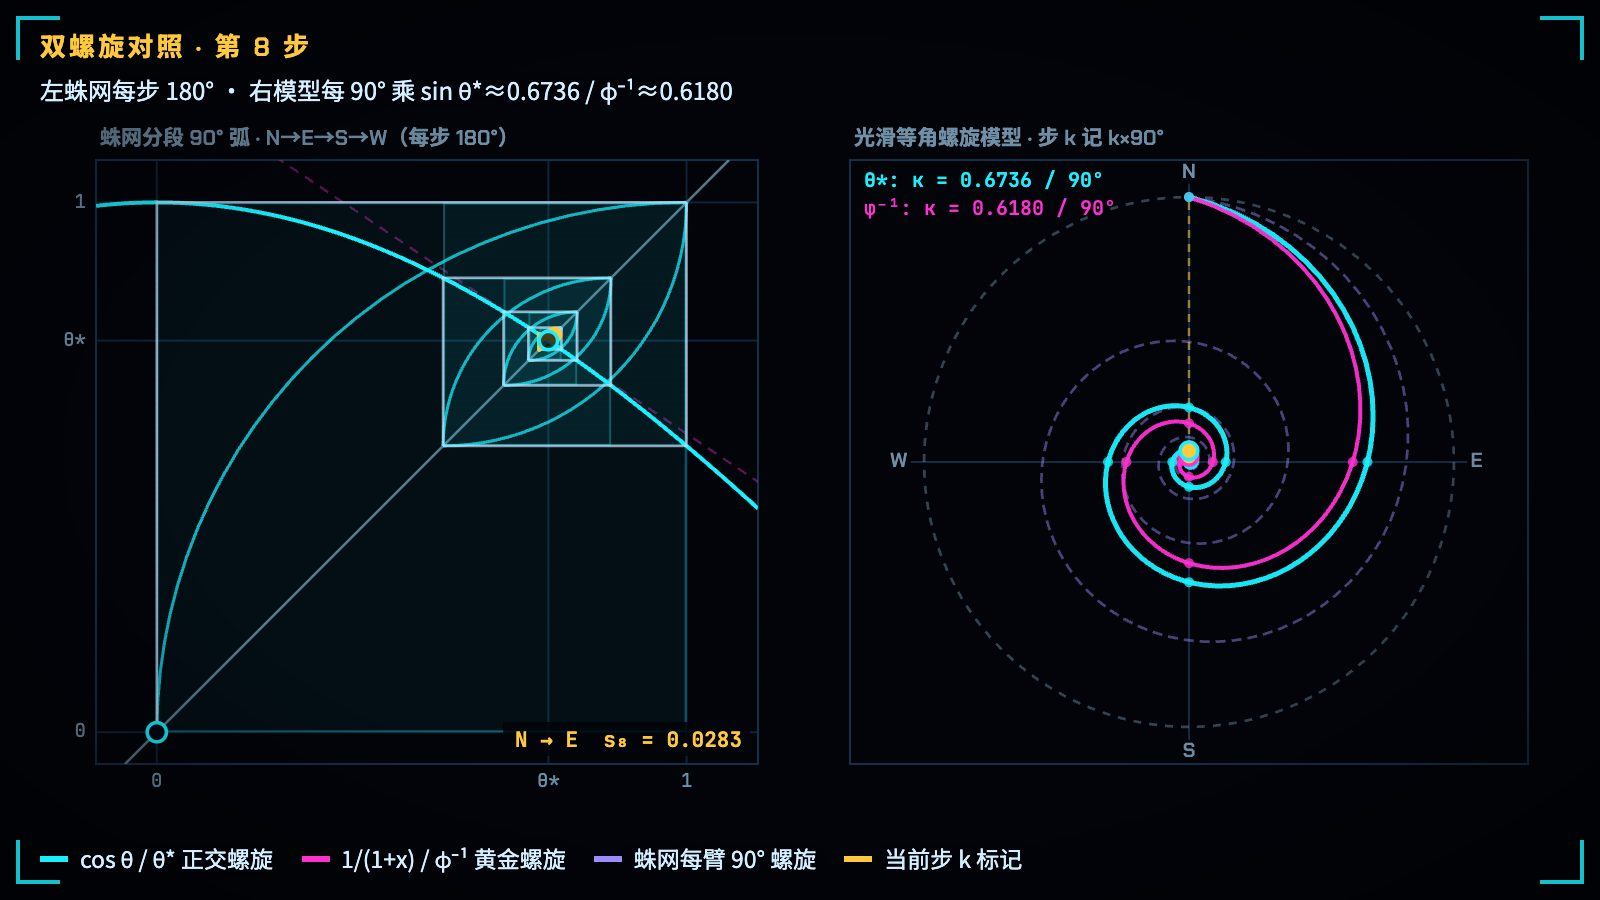
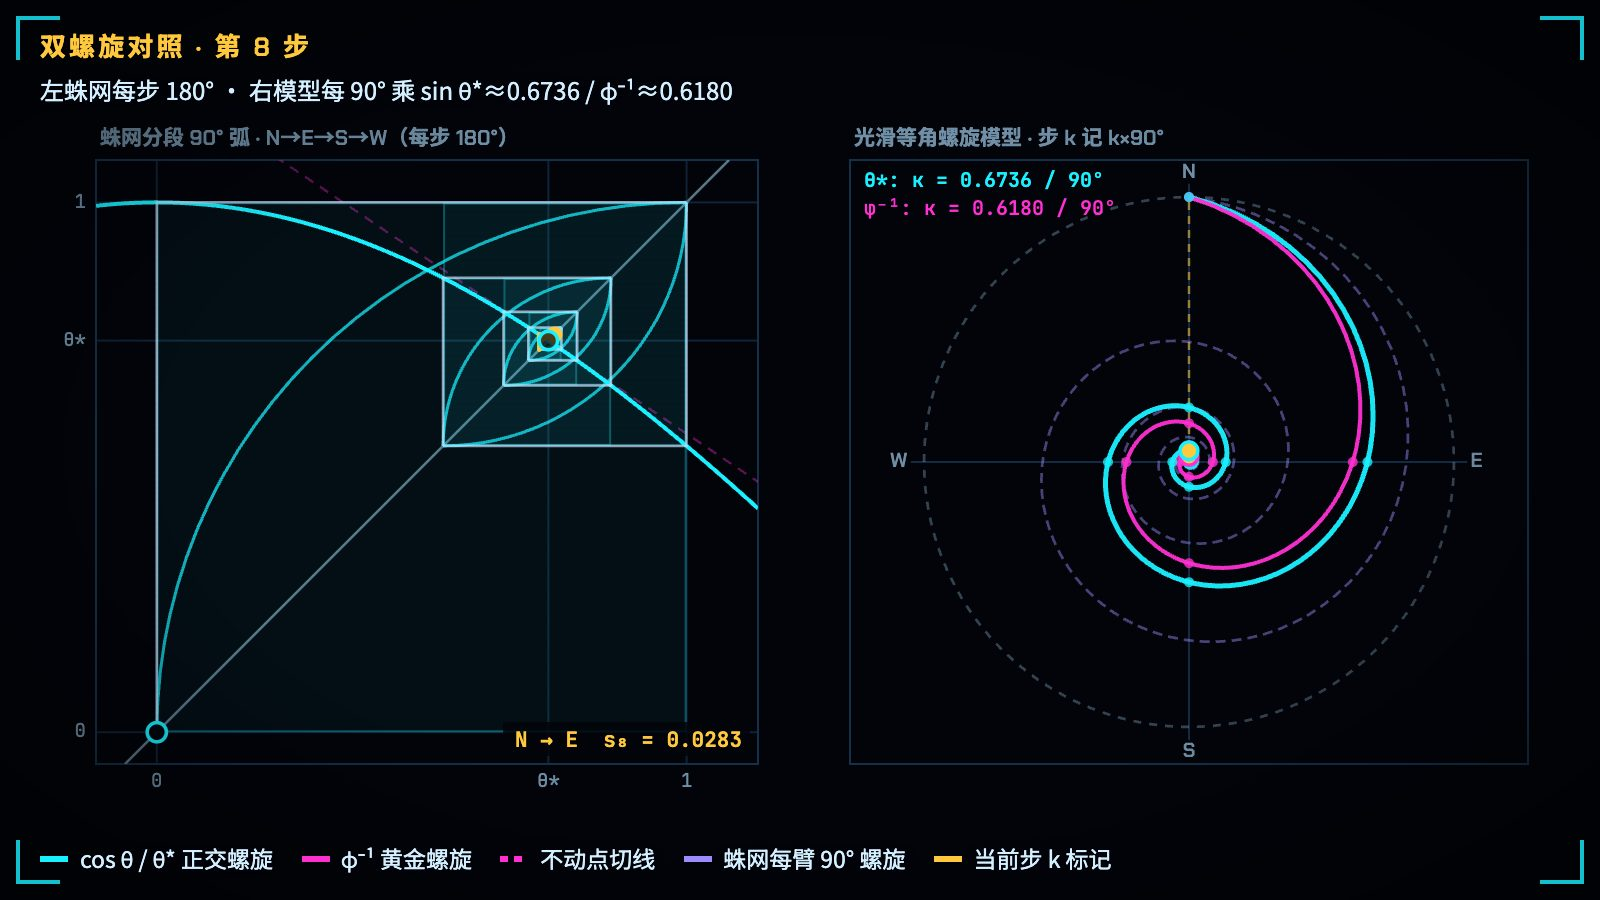
Fix Dottie lab legends and off-scale conservation marker

Changed region(s): [[0.2188, 0.9333, 0.6875, 0.9644]]

diff --git a/books/quantum-geometry/viz/dottie-fibonacci-spirals/main.js b/books/quantum-geometry/viz/dottie-fibonacci-spirals/main.js
@@ -403,7 +403,7 @@
     if (!follow) {
       const sx = B.X(S.x0c / 100), sy = B.Y(S.x0c / 100);
       ctx.fillStyle = P.void;
-      ctx.strokeStyle = step() === 0 ? P.amber : P.cyan;
+      ctx.strokeStyle = step() === 0 ? P.amber : (S.map === 'fib' ? P.magenta : P.cyan);
       ctx.lineWidth = 1.8 * lw;
       ctx.beginPath(); ctx.arc(sx, sy, 4.8 * lw, 0, TAU); ctx.fill(); ctx.stroke();
     }
@@ -753,11 +753,18 @@
     ctx.lineWidth = 1.8 * lw;
     ctx.beginPath(); ctx.moveTo(xSplit, pyBar - 2); ctx.lineTo(xSplit, pyBar + barH + 2); ctx.stroke();
     const Of = buildOrbit('fib', S.x0c === 0 ? 100 : S.x0c), kBar = step();
-    const xkBar = clamp(Of.xs[Math.min(kBar, KMAX)], 0, 1);
-    ctx.fillStyle = P.amber;
-    ctx.strokeStyle = P.stage;
-    ctx.lineWidth = 1.1 * lw;
-    ctx.beginPath(); ctx.arc(B.X(xkBar), pyBar, 3.3 * lw, 0, TAU); ctx.fill(); ctx.stroke();
+    const xkBar = Of.xs[Math.min(kBar, KMAX)];
+    // A start x₀ ∈ (1, 1.5] lies past the unit bar: point beyond its end instead of pinning the marker at 1.
+    const offBar = xkBar > 1;
+    const tipX = x1P + 2 * lw + Math.max(10 * lw, Math.min(16 * lw, B.bx + B.bw - x1P - 5 * lw));
+    if (offBar) {
+      drawArrowSeg(ctx, x1P + 2 * lw, pyBar + barH / 2, tipX, pyBar + barH / 2, P.amber, 2.2, lw, 7);
+    } else {
+      ctx.fillStyle = P.amber;
+      ctx.strokeStyle = P.stage;
+      ctx.lineWidth = 1.1 * lw;
+      ctx.beginPath(); ctx.arc(B.X(xkBar), pyBar, 3.3 * lw, 0, TAU); ctx.fill(); ctx.stroke();
+    }
 
     if (!TRV.thumbMode) {
       ctx.font = font(10, 'data', 600);
@@ -765,13 +772,23 @@
       ctx.fillStyle = P.ink;
       ctx.textAlign = 'left';
       ctx.fillText('1D: φ⁻¹ + φ⁻² = 1', x0P, pyBar - 3);
-      const fibTag = S.x0c === 0
+      const w1D = ctx.measureText('1D: φ⁻¹ + φ⁻² = 1').width;
+      let fibTag = S.x0c === 0
         ? `x${sub(kBar)}(x₀=1)=${Of.rationals[Math.min(kBar, KMAX)]}`
         : `x${sub(kBar)}=${Of.rationals[Math.min(kBar, KMAX)]}`;
       ctx.font = font(9.5, 'data', 600);
       ctx.fillStyle = P.amber;
       ctx.textAlign = 'right';
-      ctx.fillText(fibTag, x1P, pyBar - 3);
+      // off the bar: the tag says so and ends above the arrow, clear of the 1D statement (short form when cramped)
+      let tagX = x1P;
+      if (offBar) {
+        const minLeft = x0P + w1D + 6, right = B.bx + B.bw - 4 * lw;
+        const place = (t) => Math.min(right, Math.max(tipX + 2 * lw, minLeft + ctx.measureText(t).width));
+        const full = `${fibTag} > 1${L(' 尺外', ' off-scale')}`;
+        fibTag = place(full) - ctx.measureText(full).width >= minLeft ? full : `${fibTag} > 1`;
+        tagX = place(fibTag);
+      }
+      ctx.fillText(fibTag, tagX, pyBar - 3);
       ctx.font = font(10, 'data', 600);
       ctx.textBaseline = 'top';
       ctx.fillStyle = P.cyan;
@@ -1052,7 +1069,10 @@
     $('pillStep').querySelector('strong').textContent = String(k);
     $('pillAngle').querySelector('strong').textContent = `${fix(sp.alphaDeg, 2)}°`;
 
-    // Stage HUD top-left & bottom-left legend
+    // Stage HUD top-left & bottom-left legend: the cobweb entries follow the maps actually drawn (cos θ only when the
+    // cosine map is on, 1/(1+x) only when the reciprocal map is on, the dashed tangent only for a single map).
+    const hasCos = S.map !== 'fib', hasFib = S.map !== 'cos';
+    const tangentItem = S.map !== 'both' ? [`<span><i class="sw dash mg"></i>${L('不动点切线', 'fixed-point tangent')}</span>`] : [];
     if (S.scene === 'cobweb') {
       const kind = S.map === 'fib' ? 'fib' : 'cos', O = buildOrbit(kind, S.x0c);
       $('hudBig').textContent = S.cam === 'follow' && S.map !== 'both'
@@ -1063,8 +1083,9 @@
         `|ΔV| = |ΔH| = ${sci(O.sides[k])} · turn ${O.dirs[k][0]} → ${O.dirs[k][1]} (180°/step)`
       );
       $('legend').innerHTML = [
-        `<span><i class="sw cy"></i>${L('cos θ 与分段 90° 弧', 'cos θ & 90° guides')}</span>`,
-        ...(S.map !== 'cos' ? [`<span><i class="sw mg"></i>1/(1 + x)</span>`] : [`<span><i class="sw dash mg"></i>${L('不动点切线', 'fixed-point tangent')}</span>`]),
+        ...(hasCos ? [`<span><i class="sw cy"></i>${L('cos θ 与分段 90° 弧', 'cos θ & 90° guides')}</span>`] : []),
+        ...(hasFib ? [`<span><i class="sw mg"></i>${L('1/(1 + x) 与分段 90° 弧', '1/(1 + x) & 90° guides')}</span>`] : []),
+        ...tangentItem,
         `<span><i class="sw ink"></i>${L('已走折线', 'walked cobweb')}</span>`,
         `<span><i class="sw am"></i>${L('当前直角步与方格', 'active step & square')}</span>`
       ].join('');
@@ -1077,8 +1098,9 @@
         `Cobweb 180°/step · Polar 90°/step: sin θ*≈${fix(LAMd, 4)} vs φ⁻¹≈${fix(IPHId, 4)}`
       );
       $('legend').innerHTML = [
-        `<span><i class="sw cy"></i>${L('cos θ / θ* 正交螺旋', 'cos θ / θ* spiral')}</span>`,
-        `<span><i class="sw mg"></i>${L('1/(1+x) / φ⁻¹ 黄金螺旋', '1/(1+x) / φ⁻¹ spiral')}</span>`,
+        `<span><i class="sw cy"></i>${hasCos ? L('cos θ / θ* 正交螺旋', 'cos θ / θ* spiral') : L('θ* 正交螺旋', 'θ* spiral')}</span>`,
+        `<span><i class="sw mg"></i>${hasFib ? L('1/(1+x) / φ⁻¹ 黄金螺旋', '1/(1+x) / φ⁻¹ spiral') : L('φ⁻¹ 黄金螺旋', 'φ⁻¹ spiral')}</span>`,
+        ...tangentItem,
         `<span><i class="sw vi"></i>${L('蛛网每臂 90° 螺旋', 'cobweb per-arm spiral')}</span>`,
         `<span><i class="sw am"></i>${L('当前步 k 标记', 'active step k')}</span>`
       ].join('');

diff --git a/docs/project/CONTENT-ACCURACY-CURRENT-20261112.md b/docs/project/CONTENT-ACCURACY-CURRENT-20261112.md
@@ -1,0 +1,75 @@
+# 现行内容准确性台账 · 2026-11-12
+
+当前基线为 `a6db32bc0717bea3445811e5935acb156732e85a` 的 `books/quantum-geometry/{zh,en}/SUMMARY.md`：每种语言 44 个单元（序曲、39 章、终章、附录 A–C）。中文为权威版本，保留作者原文与题记；仅作有当前证据的最小修订。
+
+此表直接采用调用方 `current-unit-roster.json` 的文件名、次序与待办状态，已核对中英 SUMMARY。旧 35 单元集合及历史 9/35 仅为历史来源，未经当前文本、形式声明、生产器、运行时、资产与消费者对应，不转为现版批准。本次局部媒体修复不批准第 24 章、第 32 章或任何完整单元。
+
+| 单元（中英同名） | 当前状态 |
+| --- | --- |
+| `README.md` | 待当前逐章核对与证据对应 |
+| `ch01-measurement.md` | 待当前逐章核对与证据对应 |
+| `ch02-born-rule.md` | 待当前逐章核对与证据对应 |
+| `ch03-projectors-and-duality.md` | 待当前逐章核对与证据对应 |
+| `ch04-decoherence.md` | 待当前逐章核对与证据对应 |
+| `ch05-complex-phase-and-rotors.md` | 待当前逐章核对与证据对应 |
+| `ch06-geometric-product.md` | 待当前逐章核对与证据对应 |
+| `ch07-geometric-time-and-speed-limits.md` | 待当前逐章核对与证据对应 |
+| `ch08-erasure-and-time-arrows.md` | 待当前逐章核对与证据对应 |
+| `ch09-axes-and-state-addressing.md` | 待当前逐章核对与证据对应 |
+| `ch10-gram-geometry-and-order.md` | 待当前逐章核对与证据对应 |
+| `ch11-pulses-and-virtual-z.md` | 待当前逐章核对与证据对应 |
+| `ch12-measurement-computation-and-gradients.md` | 待当前逐章核对与证据对应 |
+| `ch13-entanglement-and-chsh.md` | 待当前逐章核对与证据对应 |
+| `ch14-cloning-codes-and-braids.md` | 待当前逐章核对与证据对应 |
+| `ch15-grover-qft-and-period-finding.md` | 待当前逐章核对与证据对应 |
+| `ch16-qsvt-walks-and-compilation.md` | 待当前逐章核对与证据对应 |
+| `ch17-lorentz-geometry.md` | 待当前逐章核对与证据对应 |
+| `ch18-spinors-and-gauge-curvature.md` | 待当前逐章核对与证据对应 |
+| `ch19-tensor-networks-and-holography.md` | 待当前逐章核对与证据对应 |
+| `ch20-complexity-and-spacetime.md` | 待当前逐章核对与证据对应 |
+| `ch21-diagonalization-and-escape.md` | 待当前逐章核对与证据对应 |
+| `ch22-primes-euler-products-and-zeros.md` | 待当前逐章核对与证据对应 |
+| `ch23-diophantine-definability.md` | 待当前逐章核对与证据对应 |
+| `ch24-cosine-fixed-points-and-self-reference.md` | 待当前逐章核对与证据对应 |
+| `ch25-rewriting-and-xor.md` | 待当前逐章核对与证据对应 |
+| `ch26-single-qubit-rotor-compilation.md` | 待当前逐章核对与证据对应 |
+| `ch27-reading-frozen-proofs-i.md` | 待当前逐章核对与证据对应 |
+| `ch28-reading-frozen-proofs-ii.md` | 待当前逐章核对与证据对应 |
+| `ch29-timeless-causality-and-gram-space.md` | 待当前逐章核对与证据对应 |
+| `ch30-fields-lines-eth-and-navier-stokes.md` | 待当前逐章核对与证据对应 |
+| `ch31-quantum-fairness.md` | 待当前逐章核对与证据对应 |
+| `ch32-unified-field-and-meta-unification.md` | 待当前逐章核对与证据对应 |
+| `ch33-all-beings-observers-and-mutual-attractors.md` | 待当前逐章核对与证据对应 |
+| `ch34-orthogonality-degeneracy-and-observer-position.md` | 待当前逐章核对与证据对应 |
+| `ch35-light-pulse-and-self-referential-table.md` | 待当前逐章核对与证据对应 |
+| `ch36-hyperbolic-steps-and-quotienting-reincarnation.md` | 待当前逐章核对与证据对应 |
+| `ch37-dreams-quantum-eraser-and-nonlocal-observer.md` | 待当前逐章核对与证据对应 |
+| `ch38-observer-memory-pointer-and-ontological-qram.md` | 待当前逐章核对与证据对应 |
+| `ch39-observer-is-ontological-universe.md` | 待当前逐章核对与证据对应 |
+| `coda.md` | 待当前逐章核对与证据对应 |
+| `appendix-a.md` | 待当前逐章核对与证据对应 |
+| `appendix-b.md` | 待当前逐章核对与证据对应 |
+| `appendix-c.md` | 待当前逐章核对与证据对应 |
+
+## 本批范围与证据
+
+只处理 `dottie-fibonacci-spirals` 的两处支持控件状态失真，并为实际绘图加入回归核对。双语正文、题记、定理绑定、预设次序、控件范围、递推数值与共享框架均保留。
+
+- F1 已作局部修复：方格/双栏图例按实际映射、导引弧、切线和仍在绘制的极坐标螺旋生成；单倒数映射起点环使用同一品红语义。原失败状态与相邻映射/镜头组合已核对。
+- F2 已作局部修复：`x₀=1.50` 切换至倾角→守恒、步 0 时，以单位尺外的向右箭头及精确 `3/2 > 1` 标注代替端点圆点；宽屏补充双语尺外文字。尺内值仍按精确比例定位，保留全部 `0…1.50`、步长 `0.01` 的支持域与递推算术。
+
+当前验证目录：`/tmp/qg-current-dottie-repair-evidence-20261112/`。输入清单有 1,919 条，逐条哈希一致；指定只读冻结输入 219 份也逐条核对。精确钉版 `a767dce5d7b4a01bd003f8722405c672f4eaaafa`（477 声明），模板 `0.7.0`。完整实验室与测试相对旧 `251f73364fbda30b770ade8c2beb178735e9ad6a` 的 17 个文件字节一致，共享运行时存在变化，因此旧执行/像素不能直接充当当前证据；当前消费者按 `source-consumer-correspondence.json` 记录。历史 intake 只在对应闭包内保留其原有含义。
+
[1 lines of base64/hex data omitted]
+
+- 原 135 项测试全过但两缺陷可复现；现版普通测试与 `VIZ_SLOW_FRAMES=1000` 均 **298/298**。新增测试按独立算法核对实际画布曲线、弧、切线、图例及标记。把检查快照临时换回 a6 原生产器后 **24 项失败**（274/298），已恢复并核对修复版哈希；工作目标未作这种临时替换。
+- 独立 95 位十进制余弦与精确分数核对 151 个起点 × 2 映射 × 22 状态，共 **6,644** 个数值，最大绝对误差 `2.220446049250313e-16`，倒数有理数逐项相同；这是有限控件域验证，不是无限收敛证明。
+- 标准 `viz-shots` 7 张，另有中英 × 深浅系统主题的 40 张当前状态画面，覆盖桌面 1440×900、书内 740×500、手机 390×844、封面 1280×720；已看实际失败状态、标准四视图、引用静态图与封面。运行时采用统一深色样式；20 组深浅画面中 19 组 RGB 像素完全相同，另一组仅单个边缘像素不同。浏览器无页面/控制台/请求错误，独立矩阵 **42/42**。书内初始截图可处于自动播放早期帧；引用静态图按预设 still 帧生成。
+- `viz-thumbs` 重新生成全部 **13** 个 JPEG：两张 `fig-twin` 因图例变化更新，封面与其余 10 张静态图 **11 个字节相同**，逐文件结果见 `refreshed-stills.json`。
+- 最后新跑 `./tbook check`：**0 错误、8 条历史 film subject_commit 警告**；媒体校验 49 个 live 页面 **0 错误、0 警告**；两份脚本语法检查通过。未改 SVG/XML、共享工具、主题或锁文件；最终差异空白检查通过。
+
+当前像素限制仍保留：390px 手机守恒面板原有的 1D/2D 文字拥挤与上/下沿裁切仍存在，新增尺外标签在窄处缩为 `3/2 > 1`。已用相同当前运行时、a6 原生产器的中英手机画面对比，确认拥挤与裁切在修复前也存在；箭头取代错误端点圆点不等于这些版式限制已解决。证据为 `contacts/phone-before-after.png`。历史 PDF、印刷与其他 HUD 问题不因本批检查获得结案。
+
+## 仍待完成
+
+初次独立 R1 三席审查尚未进行；本次实施与自检不替代独立审查。全书 HTML/PDF/EPUB/site/幻灯片最终输出属于另行保留的 assignment（剩余 1），本批未使用。历史 PDF、印刷预览与 HUD 观察不自动结案。调用方仍负责暂存、提交、PR、CI、合入与 Pages，以及整本现行内容的持续核对；此处无整章、整书或目标完成声明。既有综合台账及本地准确性 skill 的另一路后续工作不在本批编辑范围。
